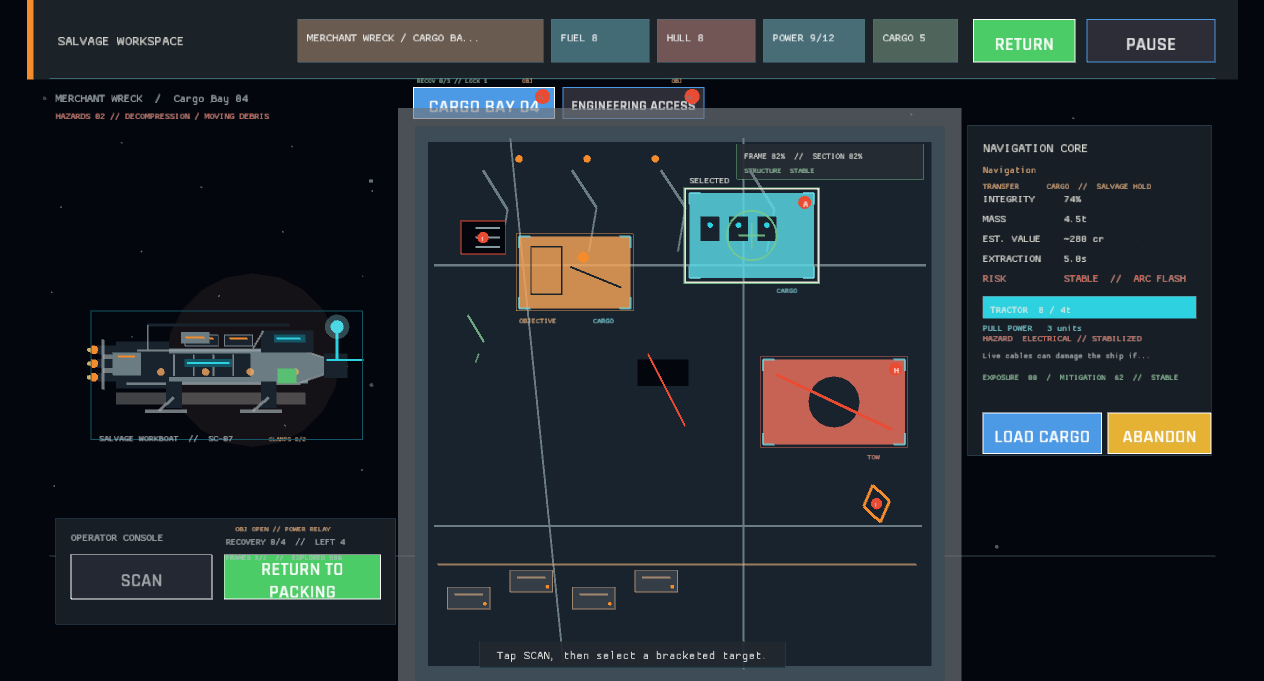
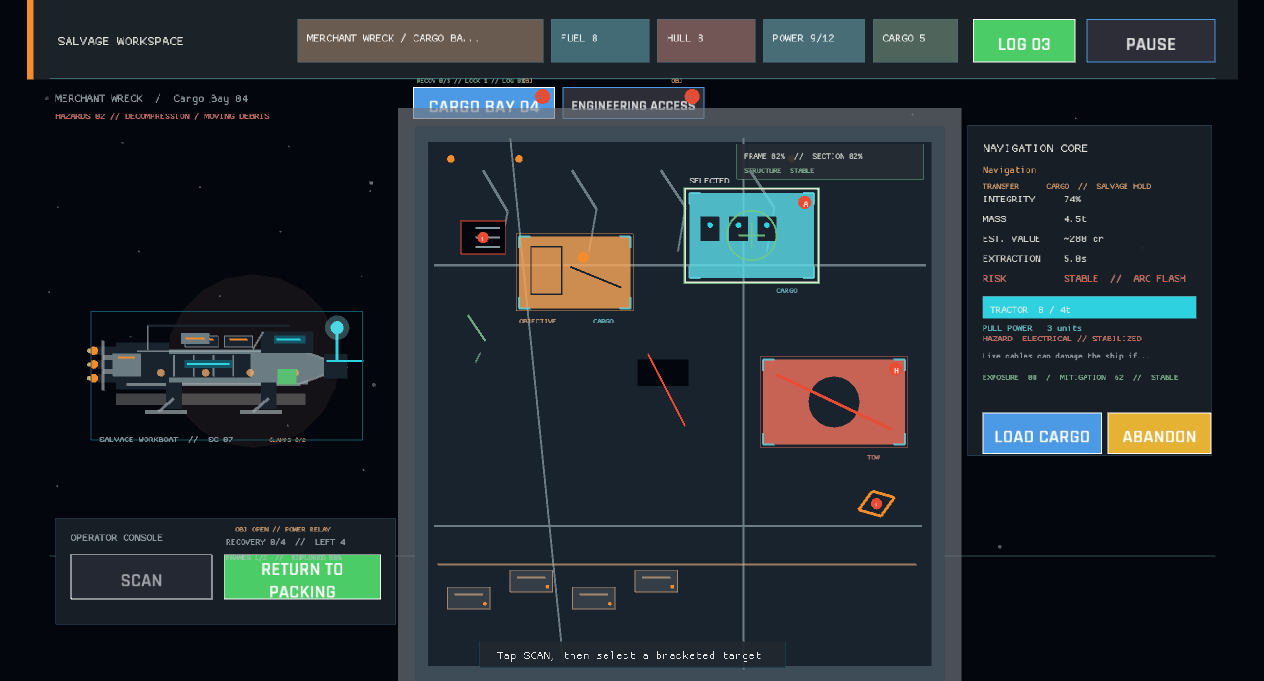
Each wreck frame keeps its own trail of work (frame log markers)
Connected section tabs now show only the operation-log events recorded in that frame, beside recovery and stabilization counts. This makes revisits legible without confusing activity from another compartment.

diff --git a/src/ui/section_nav.rs b/src/ui/section_nav.rs
@@ -2,6 +2,7 @@
 
 use super::{button, clipped, hazard_label, visual_theme, UiAction, UiContext};
 use crate::state::workspace::WorkspaceConditionStatus;
+use crate::state::WorkspaceLogEntry;
 use macroquad::prelude::*;
 use macroquad_toolkit::ui::ButtonTone;
 
@@ -107,12 +108,19 @@ pub fn draw_section_nav(
                 .as_ref()
                 .map(|expedition| expedition.stabilized_targets.as_slice()),
         );
+        let log_count = ctx
+            .session
+            .site_progress
+            .get(&site.id)
+            .map_or(0, |progress| {
+                section_log_count(&progress.operation_log, &section.id)
+            });
         if let Some(status) = ctx
             .session
             .site_section_condition_status(&site.id, &section.id, ctx.data)
             .filter(|status| status.discovered)
         {
-            draw_section_recovery(rect, status, stabilized_count);
+            draw_section_recovery(rect, status, stabilized_count, log_count);
         } else if visited {
             draw_text(
                 "VISITED",
@@ -126,16 +134,26 @@ pub fn draw_section_nav(
     }
 }
 
-fn draw_section_recovery(rect: Rect, status: WorkspaceConditionStatus, stabilized_count: usize) {
+fn draw_section_recovery(
+    rect: Rect,
+    status: WorkspaceConditionStatus,
+    stabilized_count: usize,
+    log_count: usize,
+) {
     let lock_suffix = if stabilized_count == 0 {
         String::new()
     } else {
         format!(" // LOCK {}", stabilized_count)
     };
+    let log_suffix = if log_count == 0 {
+        String::new()
+    } else {
+        format!(" // LOG {:02}", log_count)
+    };
     draw_text(
         format!(
-            "RECOV {}/{}{}",
-            status.recovered_targets, status.total_targets, lock_suffix
+            "RECOV {}/{}{}{}",
+            status.recovered_targets, status.total_targets, lock_suffix, log_suffix
         ),
         rect.x + 4.0,
         rect.y - 4.0,
@@ -155,6 +173,13 @@ fn stabilized_target_count(candidates: &[String], stabilized_targets: Option<&[S
             .filter(|target_id| candidates.iter().any(|candidate| candidate == *target_id))
             .count()
     })
+}
+
+fn section_log_count(entries: &[WorkspaceLogEntry], section_id: &str) -> usize {
+    entries
+        .iter()
+        .filter(|entry| entry.section_id == section_id)
+        .count()
 }
 
 fn draw_hazard_badge(rect: Rect, count: usize) {

diff --git a/src/ui/section_nav/tests.rs b/src/ui/section_nav/tests.rs
@@ -1,4 +1,5 @@
 use super::*;
+use crate::state::WorkspaceLogEvent;
 
 #[test]
 fn section_lock_count_only_marks_stabilized_targets_in_that_frame() {
@@ -13,4 +14,27 @@ fn section_lock_count_only_marks_stabilized_targets_in_that_frame() {
 
     assert_eq!(stabilized_target_count(&candidates, Some(&stabilized)), 1);
     assert_eq!(stabilized_target_count(&candidates, None), 0);
+}
+
+#[test]
+fn section_log_count_only_marks_events_in_that_frame() {
+    let entries = vec![
+        WorkspaceLogEntry::new(1, WorkspaceLogEvent::Departed, Some("cargo_bay"), None),
+        WorkspaceLogEntry::new(
+            2,
+            WorkspaceLogEvent::SectionScanned,
+            Some("cargo_bay"),
+            None,
+        ),
+        WorkspaceLogEntry::new(
+            3,
+            WorkspaceLogEvent::EnteredSection,
+            Some("engineering_access"),
+            None,
+        ),
+    ];
+
+    assert_eq!(section_log_count(&entries, "cargo_bay"), 2);
+    assert_eq!(section_log_count(&entries, "engineering_access"), 1);
+    assert_eq!(section_log_count(&entries, "reactor_spine"), 0);
 }
